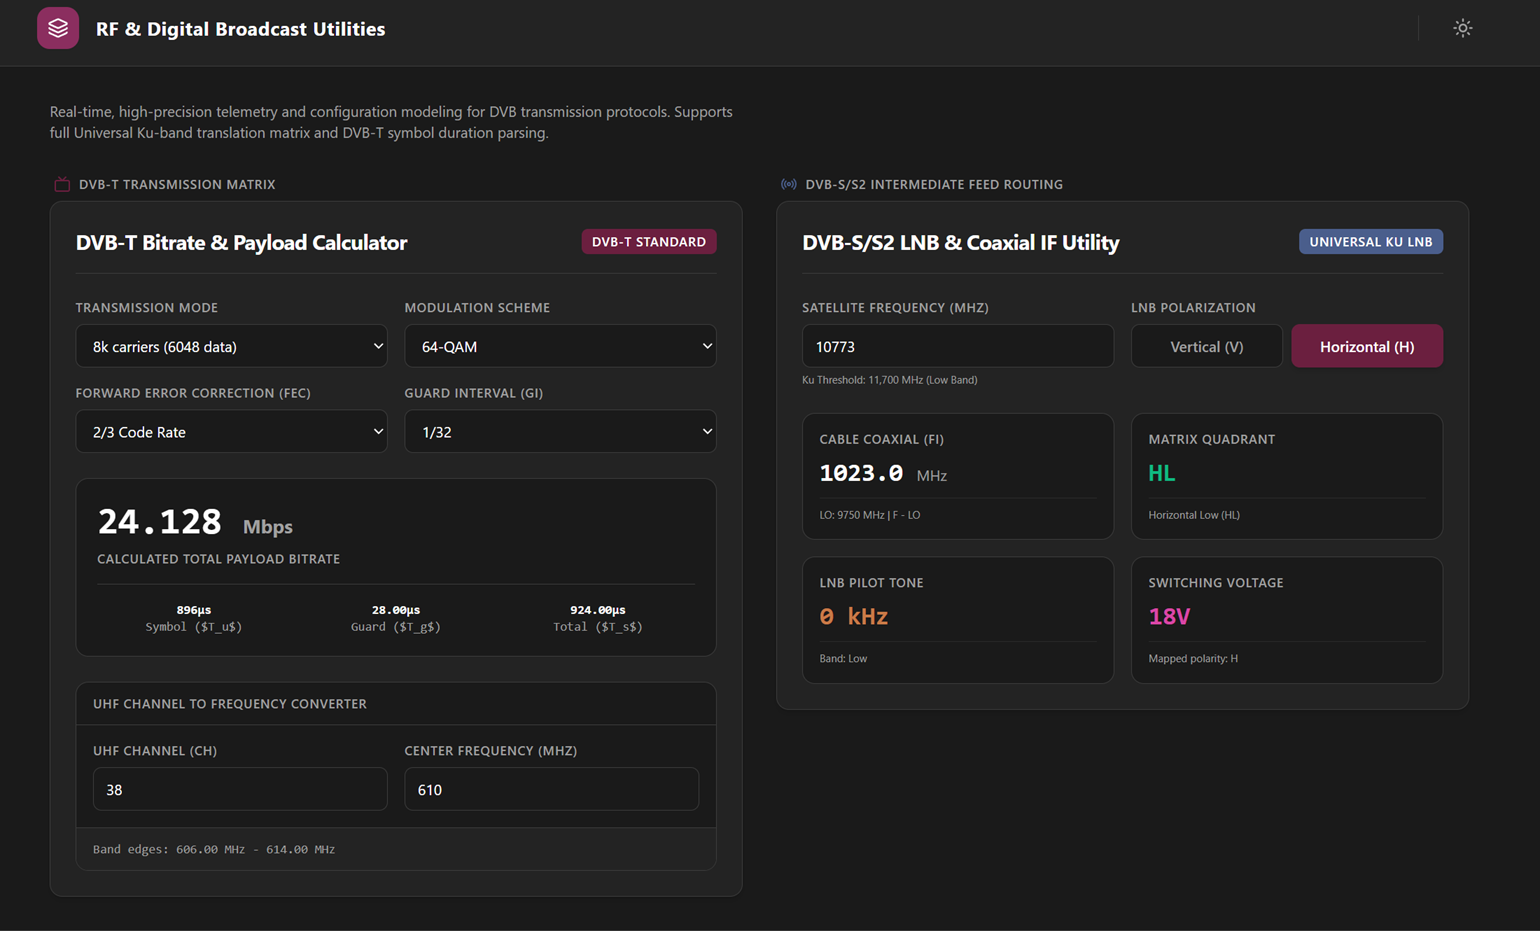
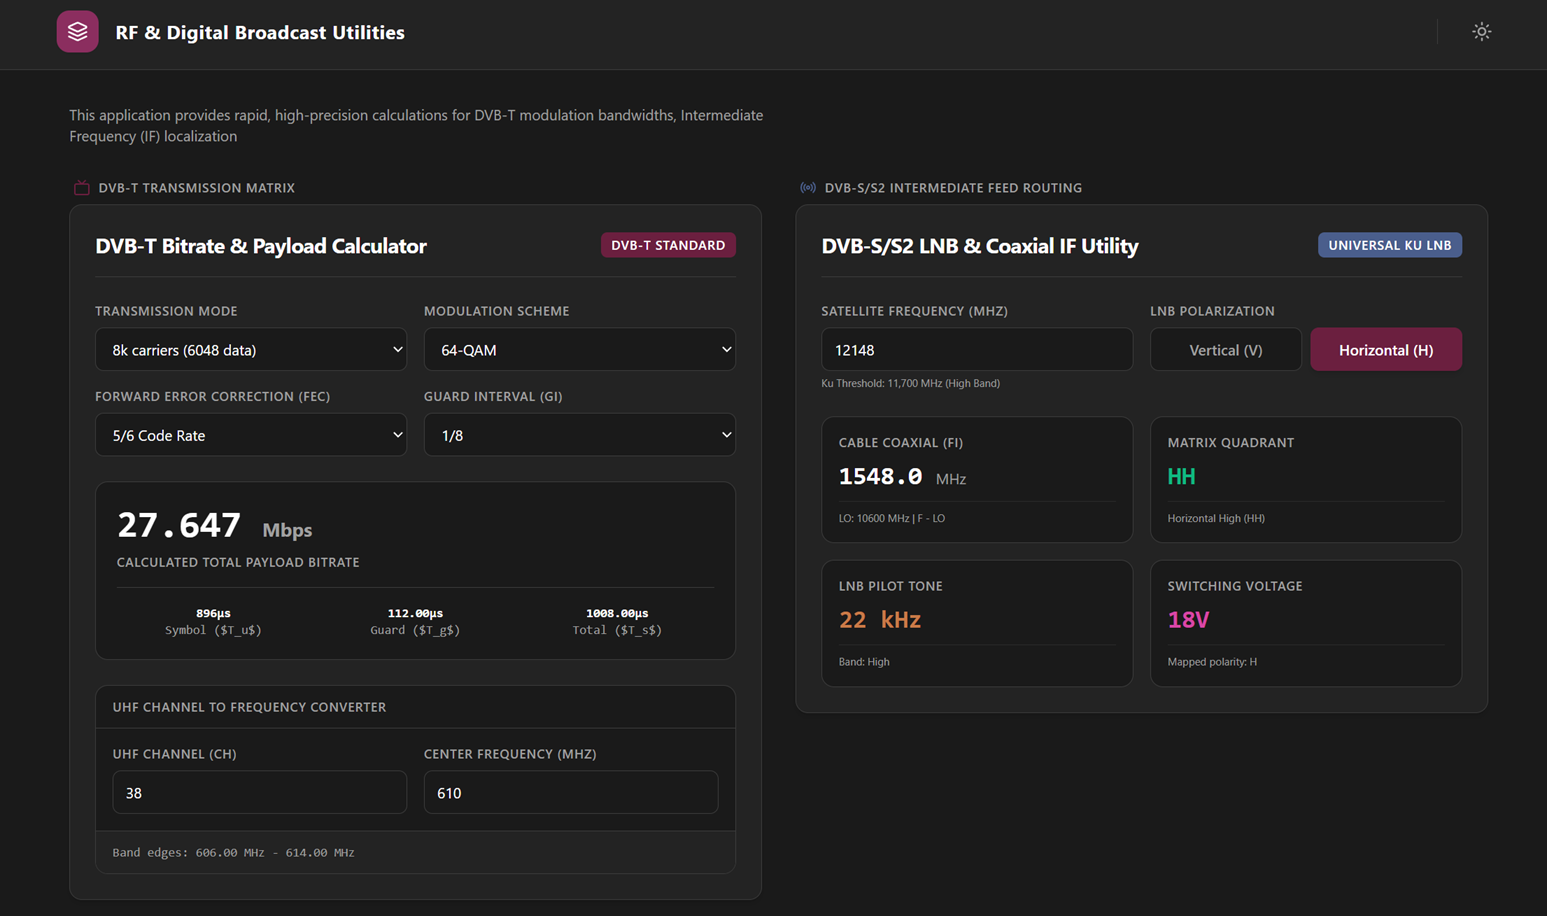
chore: update files png and gif into README.md

diff --git a/README.md b/README.md
@@ -1,4 +1,4 @@
-# Flux Engineering: RF & Digital Broadcast Utilities
+# RF & Digital Broadcast Utilities
 
 ![RF Broadcast Utilities Demo](.github/assets/RF-broadcast-Utilities.gif)
 
